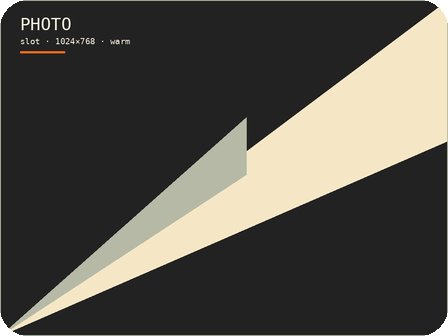
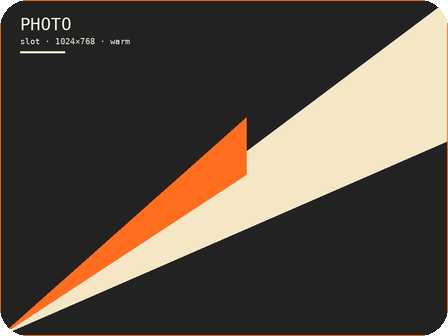
v0.6.0: accent-text token for small orange text, warm dark surfaces, outlined card 1.5px

Changed region(s): [[0.0, 0.3571, 0.5625, 0.9821], [0.0625, 0.9821, 0.9375, 1.0], [0.0312, 0.1488, 0.1562, 0.1786]]

diff --git a/examples/preview-adventurous.html b/examples/preview-adventurous.html
@@ -29,7 +29,7 @@ body{background:#333;display:flex;flex-direction:column;gap:24px;padding:24px;wi
 <div style="position:absolute;left:72px;top:612px;width:1136px;height:1px;background:#F5E7C6;border-radius:0px;"></div>
 <div style="position:absolute;left:72px;top:628px;width:700px;height:20px;font-family:'Manrope';font-size:10px;color:#565656;font-weight:400;line-height:1.3;letter-spacing:0.0em;text-align:left;white-space:pre-wrap;">Commissioning readiness · NV5</div>
 <div style="position:absolute;left:1128px;top:628px;width:80px;height:20px;font-family:'Manrope';font-size:10px;color:#565656;font-weight:400;line-height:1.3;letter-spacing:0.0em;text-align:right;white-space:pre-wrap;">02</div></section>
-<section class="slide" id="s3" style="background:#FAF3E1;"><div style="position:absolute;left:0px;top:0px;width:1280px;height:720px;background:#F9F0DC;border-radius:0px;"></div>
+<section class="slide" id="s3" style="background:#FAF3E1;"><div style="position:absolute;left:0px;top:0px;width:1280px;height:720px;background:#F5E7C6;border-radius:0px;"></div>
 <div style="position:absolute;left:72px;top:94px;width:10px;height:10px;background:#FF6D1F;border-radius:0px;"></div>
 <div style="position:absolute;left:96px;top:90px;width:620px;height:22px;font-family:'Manrope';font-size:11px;color:#3A3A3A;font-weight:700;line-height:1.3;letter-spacing:0.18em;text-align:left;white-space:pre-wrap;">02 — SOLUTION</div>
 <div style="position:absolute;left:72px;top:126px;width:132px;height:3px;background:#FF6D1F;border-radius:0px;"></div>
@@ -50,7 +50,7 @@ body{background:#333;display:flex;flex-direction:column;gap:24px;padding:24px;wi
 <div style="position:absolute;left:72px;top:500px;width:1136px;height:100px;background:#F5E7C6;border-radius:18px;"></div>
 <div style="position:absolute;left:100px;top:524px;width:700px;height:26px;font-family:'Manrope';font-size:17px;color:#222222;font-weight:700;line-height:1.3;letter-spacing:0.0em;text-align:left;white-space:pre-wrap;">Setiap temuan punya pemilik, bukti, dan tanggal.</div>
 <div style="position:absolute;left:100px;top:556px;width:700px;height:24px;font-family:'Manrope';font-size:13px;color:#3A3A3A;font-weight:400;line-height:1.3;letter-spacing:0.0em;text-align:left;white-space:pre-wrap;">Yang tidak punya ketiganya, tidak masuk laporan serah terima.</div>
-<div style="position:absolute;left:932px;top:534px;width:250px;height:40px;font-family:'Manrope';font-size:20px;color:#FF6D1F;font-weight:700;line-height:1.3;letter-spacing:0.0em;text-align:right;white-space:pre-wrap;">0 sengketa</div>
+<div style="position:absolute;left:932px;top:534px;width:250px;height:40px;font-family:'Manrope';font-size:20px;color:#A8430B;font-weight:700;line-height:1.3;letter-spacing:0.0em;text-align:right;white-space:pre-wrap;">0 sengketa</div>
 <div style="position:absolute;left:72px;top:612px;width:1136px;height:1px;background:#F5E7C6;border-radius:0px;"></div>
 <div style="position:absolute;left:72px;top:628px;width:700px;height:20px;font-family:'Manrope';font-size:10px;color:#565656;font-weight:400;line-height:1.3;letter-spacing:0.0em;text-align:left;white-space:pre-wrap;">Commissioning readiness · NV5</div>
 <div style="position:absolute;left:1128px;top:628px;width:80px;height:20px;font-family:'Manrope';font-size:10px;color:#565656;font-weight:400;line-height:1.3;letter-spacing:0.0em;text-align:right;white-space:pre-wrap;">03</div></section>
@@ -60,22 +60,22 @@ body{background:#333;display:flex;flex-direction:column;gap:24px;padding:24px;wi
 <div style="position:absolute;left:72px;top:126px;width:132px;height:3px;background:#FF6D1F;border-radius:0px;"></div>
 <div style="position:absolute;left:72px;top:168px;width:900px;height:60px;font-family:'Manrope';font-size:42px;color:#FAF3E1;font-weight:700;line-height:1.05;letter-spacing:-0.02em;text-align:left;white-space:pre-wrap;">Eighteen months, three sites.</div>
 <div style="position:absolute;left:72px;top:232px;width:700px;height:24px;font-family:'Manrope';font-size:14px;color:#F5E7C6;font-weight:400;line-height:1.3;letter-spacing:0.0em;text-align:left;white-space:pre-wrap;">Empat angka yang dipakai untuk menilai apakah ini bekerja.</div>
-<div style="position:absolute;left:72px;top:300px;width:266px;height:240px;background:#3A3A3A;border-radius:18px;"></div>
+<div style="position:absolute;left:72px;top:300px;width:266px;height:240px;background:#4A4A4A;border-radius:18px;"></div>
 <div style="position:absolute;left:96px;top:328px;width:218px;height:64px;font-family:'Manrope';font-size:46px;color:#FAF3E1;font-weight:700;line-height:1.0;letter-spacing:0.0em;text-align:left;white-space:pre-wrap;">412</div>
 <div style="position:absolute;left:96px;top:400px;width:218px;height:40px;font-family:'Manrope';font-size:13px;color:#F5E7C6;font-weight:400;line-height:1.4;letter-spacing:0.0em;text-align:left;white-space:pre-wrap;">aset tercatat</div>
-<div style="position:absolute;left:96px;top:496px;width:218px;height:22px;font-family:'Manrope';font-size:11px;color:#FF6D1F;font-weight:400;line-height:1.3;letter-spacing:0.0em;text-align:left;white-space:pre-wrap;">▲ 128 sejak Jan 2026</div>
-<div style="position:absolute;left:362px;top:300px;width:266px;height:240px;background:#3A3A3A;border-radius:18px;"></div>
+<div style="position:absolute;left:96px;top:496px;width:218px;height:22px;font-family:'Manrope';font-size:11px;color:#FFB489;font-weight:400;line-height:1.3;letter-spacing:0.0em;text-align:left;white-space:pre-wrap;">▲ 128 sejak Jan 2026</div>
+<div style="position:absolute;left:362px;top:300px;width:266px;height:240px;background:#4A4A4A;border-radius:18px;"></div>
 <div style="position:absolute;left:386px;top:328px;width:218px;height:64px;font-family:'Manrope';font-size:46px;color:#FAF3E1;font-weight:700;line-height:1.0;letter-spacing:0.0em;text-align:left;white-space:pre-wrap;">3</div>
 <div style="position:absolute;left:386px;top:400px;width:218px;height:40px;font-family:'Manrope';font-size:13px;color:#F5E7C6;font-weight:400;line-height:1.4;letter-spacing:0.0em;text-align:left;white-space:pre-wrap;">gedung serah terima</div>
-<div style="position:absolute;left:386px;top:496px;width:218px;height:22px;font-family:'Manrope';font-size:11px;color:#FF6D1F;font-weight:400;line-height:1.3;letter-spacing:0.0em;text-align:left;white-space:pre-wrap;">▲ 1 kuartal ini</div>
-<div style="position:absolute;left:652px;top:300px;width:266px;height:240px;background:#3A3A3A;border-radius:18px;"></div>
+<div style="position:absolute;left:386px;top:496px;width:218px;height:22px;font-family:'Manrope';font-size:11px;color:#FFB489;font-weight:400;line-height:1.3;letter-spacing:0.0em;text-align:left;white-space:pre-wrap;">▲ 1 kuartal ini</div>
+<div style="position:absolute;left:652px;top:300px;width:266px;height:240px;background:#4A4A4A;border-radius:18px;"></div>
 <div style="position:absolute;left:676px;top:328px;width:218px;height:64px;font-family:'Manrope';font-size:46px;color:#FAF3E1;font-weight:700;line-height:1.0;letter-spacing:0.0em;text-align:left;white-space:pre-wrap;">0</div>
 <div style="position:absolute;left:676px;top:400px;width:218px;height:40px;font-family:'Manrope';font-size:13px;color:#F5E7C6;font-weight:400;line-height:1.4;letter-spacing:0.0em;text-align:left;white-space:pre-wrap;">sengketa pasca-serahan</div>
-<div style="position:absolute;left:676px;top:496px;width:218px;height:22px;font-family:'Manrope';font-size:11px;color:#FF6D1F;font-weight:400;line-height:1.3;letter-spacing:0.0em;text-align:left;white-space:pre-wrap;">= tetap nol</div>
-<div style="position:absolute;left:942px;top:300px;width:266px;height:240px;background:#3A3A3A;border-radius:18px;"></div>
+<div style="position:absolute;left:676px;top:496px;width:218px;height:22px;font-family:'Manrope';font-size:11px;color:#FFB489;font-weight:400;line-height:1.3;letter-spacing:0.0em;text-align:left;white-space:pre-wrap;">= tetap nol</div>
+<div style="position:absolute;left:942px;top:300px;width:266px;height:240px;background:#4A4A4A;border-radius:18px;"></div>
 <div style="position:absolute;left:966px;top:328px;width:218px;height:64px;font-family:'Manrope';font-size:46px;color:#FAF3E1;font-weight:700;line-height:1.0;letter-spacing:0.0em;text-align:left;white-space:pre-wrap;">11</div>
 <div style="position:absolute;left:966px;top:400px;width:218px;height:40px;font-family:'Manrope';font-size:13px;color:#F5E7C6;font-weight:400;line-height:1.4;letter-spacing:0.0em;text-align:left;white-space:pre-wrap;">hari lebih cepat</div>
-<div style="position:absolute;left:966px;top:496px;width:218px;height:22px;font-family:'Manrope';font-size:11px;color:#FF6D1F;font-weight:400;line-height:1.3;letter-spacing:0.0em;text-align:left;white-space:pre-wrap;">▼ dari 11 ke 4 hari</div>
+<div style="position:absolute;left:966px;top:496px;width:218px;height:22px;font-family:'Manrope';font-size:11px;color:#FFB489;font-weight:400;line-height:1.3;letter-spacing:0.0em;text-align:left;white-space:pre-wrap;">▼ dari 11 ke 4 hari</div>
 <div style="position:absolute;left:72px;top:580px;width:900px;height:24px;font-family:'Manrope';font-size:11px;color:#F5E7C6;font-weight:400;line-height:1.3;letter-spacing:0.0em;text-align:left;white-space:pre-wrap;">Angka dari tiga proyek percontohan di Cikarang, Jan 2025 – Jun 2026.</div>
 <div style="position:absolute;left:72px;top:612px;width:1136px;height:1px;background:#3A3A3A;border-radius:0px;"></div>
 <div style="position:absolute;left:72px;top:628px;width:700px;height:20px;font-family:'Manrope';font-size:10px;color:#B6B9A5;font-weight:400;line-height:1.3;letter-spacing:0.0em;text-align:left;white-space:pre-wrap;">Commissioning readiness · NV5</div>
@@ -100,7 +100,7 @@ body{background:#333;display:flex;flex-direction:column;gap:24px;padding:24px;wi
 <div style="position:absolute;left:96px;top:90px;width:620px;height:22px;font-family:'Manrope';font-size:11px;color:#3A3A3A;font-weight:700;line-height:1.3;letter-spacing:0.18em;text-align:left;white-space:pre-wrap;">05 — PAKET</div>
 <div style="position:absolute;left:72px;top:126px;width:132px;height:3px;background:#FF6D1F;border-radius:0px;"></div>
 <div style="position:absolute;left:72px;top:168px;width:900px;height:60px;font-family:'Manrope';font-size:42px;color:#222222;font-weight:700;line-height:1.05;letter-spacing:-0.02em;text-align:left;white-space:pre-wrap;">Dua cara masuk.</div>
-<div style="position:absolute;left:72px;top:280px;width:520px;height:300px;background:#F9F0DC;border:1px solid #24545A;border-radius:18px;"></div>
+<div style="position:absolute;left:72px;top:280px;width:520px;height:300px;background:#F5E7C6;border:1.5px solid #24545A;border-radius:18px;"></div>
 <div style="position:absolute;left:100px;top:304px;width:300px;height:22px;font-family:'Manrope';font-size:10px;color:#3A3A3A;font-weight:400;line-height:1.3;letter-spacing:0.14em;text-align:left;white-space:pre-wrap;">PILOT · SATU GEDUNG</div>
 <div style="position:absolute;left:100px;top:336px;width:300px;height:60px;font-family:'Manrope';font-size:44px;color:#222222;font-weight:700;line-height:1.0;letter-spacing:0.0em;text-align:left;white-space:pre-wrap;">Rp 0</div>
 <div style="position:absolute;left:100px;top:396px;width:300px;height:22px;font-family:'Manrope';font-size:12px;color:#3A3A3A;font-weight:400;line-height:1.3;letter-spacing:0.0em;text-align:left;white-space:pre-wrap;">6 minggu, 1 tim, 120 aset</div>
@@ -123,11 +123,11 @@ body{background:#333;display:flex;flex-direction:column;gap:24px;padding:24px;wi
 <div style="position:absolute;left:72px;top:282px;width:1136px;height:1px;background:#3A3A3A;border-radius:0px;"></div>
 <div style="position:absolute;left:72px;top:306px;width:460px;height:22px;font-family:'Manrope';font-size:12px;color:#F5E7C6;font-weight:400;line-height:1.3;letter-spacing:0.0em;text-align:left;white-space:pre-wrap;">Nilai proyek per gedung</div>
 <div style="position:absolute;left:552px;top:300px;width:400px;height:44px;font-family:'Manrope';font-size:36px;color:#FAF3E1;font-weight:700;line-height:1.0;letter-spacing:0.0em;text-align:right;white-space:pre-wrap;">Rp 1,2 M</div>
-<div style="position:absolute;left:972px;top:312px;width:236px;height:30px;font-family:'Manrope';font-size:15px;color:#FF6D1F;font-weight:700;line-height:1.3;letter-spacing:0.0em;text-align:right;white-space:pre-wrap;">+12%</div>
+<div style="position:absolute;left:972px;top:312px;width:236px;height:30px;font-family:'Manrope';font-size:15px;color:#FFB489;font-weight:700;line-height:1.3;letter-spacing:0.0em;text-align:right;white-space:pre-wrap;">+12%</div>
 <div style="position:absolute;left:72px;top:372px;width:1136px;height:1px;background:#3A3A3A;border-radius:0px;"></div>
 <div style="position:absolute;left:72px;top:396px;width:460px;height:22px;font-family:'Manrope';font-size:12px;color:#F5E7C6;font-weight:400;line-height:1.3;letter-spacing:0.0em;text-align:left;white-space:pre-wrap;">Biaya serah terima</div>
 <div style="position:absolute;left:552px;top:390px;width:400px;height:44px;font-family:'Manrope';font-size:36px;color:#FAF3E1;font-weight:700;line-height:1.0;letter-spacing:0.0em;text-align:right;white-space:pre-wrap;">Rp 96 jt</div>
-<div style="position:absolute;left:972px;top:402px;width:236px;height:30px;font-family:'Manrope';font-size:15px;color:#FF6D1F;font-weight:700;line-height:1.3;letter-spacing:0.0em;text-align:right;white-space:pre-wrap;">−11 hari</div>
+<div style="position:absolute;left:972px;top:402px;width:236px;height:30px;font-family:'Manrope';font-size:15px;color:#FFB489;font-weight:700;line-height:1.3;letter-spacing:0.0em;text-align:right;white-space:pre-wrap;">−11 hari</div>
 <div style="position:absolute;left:72px;top:462px;width:1136px;height:1px;background:#3A3A3A;border-radius:0px;"></div>
 <div style="position:absolute;left:72px;top:486px;width:460px;height:22px;font-family:'Manrope';font-size:12px;color:#F5E7C6;font-weight:400;line-height:1.3;letter-spacing:0.0em;text-align:left;white-space:pre-wrap;">Sengketa setelah serah terima</div>
 <div style="position:absolute;left:552px;top:480px;width:400px;height:44px;font-family:'Manrope';font-size:36px;color:#FF6D1F;font-weight:700;line-height:1.0;letter-spacing:0.0em;text-align:right;white-space:pre-wrap;">Rp 0</div>

diff --git a/examples/preview-professional.html b/examples/preview-professional.html
@@ -50,7 +50,7 @@ body{background:#333;display:flex;flex-direction:column;gap:24px;padding:24px;wi
 <div style="position:absolute;left:72px;top:500px;width:1136px;height:100px;background:#F5E7C6;border-radius:18px;"></div>
 <div style="position:absolute;left:100px;top:524px;width:700px;height:26px;font-family:'Manrope';font-size:17px;color:#142C36;font-weight:700;line-height:1.3;letter-spacing:0.0em;text-align:left;white-space:pre-wrap;">Setiap temuan punya pemilik, bukti, dan tanggal.</div>
 <div style="position:absolute;left:100px;top:556px;width:700px;height:24px;font-family:'Manrope';font-size:13px;color:#24545A;font-weight:400;line-height:1.3;letter-spacing:0.0em;text-align:left;white-space:pre-wrap;">Yang tidak punya ketiganya, tidak masuk laporan serah terima.</div>
-<div style="position:absolute;left:932px;top:534px;width:250px;height:40px;font-family:'Manrope';font-size:20px;color:#FF6D1F;font-weight:700;line-height:1.3;letter-spacing:0.0em;text-align:right;white-space:pre-wrap;">0 sengketa</div>
+<div style="position:absolute;left:932px;top:534px;width:250px;height:40px;font-family:'Manrope';font-size:20px;color:#A8430B;font-weight:700;line-height:1.3;letter-spacing:0.0em;text-align:right;white-space:pre-wrap;">0 sengketa</div>
 <div style="position:absolute;left:72px;top:612px;width:1136px;height:1px;background:#D2D4C6;border-radius:0px;"></div>
 <div style="position:absolute;left:72px;top:628px;width:700px;height:20px;font-family:'Manrope';font-size:10px;color:#466B67;font-weight:400;line-height:1.3;letter-spacing:0.0em;text-align:left;white-space:pre-wrap;">Commissioning readiness · NV5</div>
 <div style="position:absolute;left:1128px;top:628px;width:80px;height:20px;font-family:'Manrope';font-size:10px;color:#466B67;font-weight:400;line-height:1.3;letter-spacing:0.0em;text-align:right;white-space:pre-wrap;">03</div></section>
@@ -63,19 +63,19 @@ body{background:#333;display:flex;flex-direction:column;gap:24px;padding:24px;wi
 <div style="position:absolute;left:72px;top:300px;width:266px;height:240px;background:#1B3B47;border-radius:18px;"></div>
 <div style="position:absolute;left:96px;top:328px;width:218px;height:64px;font-family:'Manrope';font-size:46px;color:#E9E5D9;font-weight:700;line-height:1.0;letter-spacing:0.0em;text-align:left;white-space:pre-wrap;">412</div>
 <div style="position:absolute;left:96px;top:400px;width:218px;height:40px;font-family:'Manrope';font-size:13px;color:#B6B9A5;font-weight:400;line-height:1.4;letter-spacing:0.0em;text-align:left;white-space:pre-wrap;">aset tercatat</div>
-<div style="position:absolute;left:96px;top:496px;width:218px;height:22px;font-family:'Manrope';font-size:11px;color:#FF6D1F;font-weight:400;line-height:1.3;letter-spacing:0.0em;text-align:left;white-space:pre-wrap;">▲ 128 sejak Jan 2026</div>
+<div style="position:absolute;left:96px;top:496px;width:218px;height:22px;font-family:'Manrope';font-size:11px;color:#FF9C63;font-weight:400;line-height:1.3;letter-spacing:0.0em;text-align:left;white-space:pre-wrap;">▲ 128 sejak Jan 2026</div>
 <div style="position:absolute;left:362px;top:300px;width:266px;height:240px;background:#1B3B47;border-radius:18px;"></div>
 <div style="position:absolute;left:386px;top:328px;width:218px;height:64px;font-family:'Manrope';font-size:46px;color:#E9E5D9;font-weight:700;line-height:1.0;letter-spacing:0.0em;text-align:left;white-space:pre-wrap;">3</div>
 <div style="position:absolute;left:386px;top:400px;width:218px;height:40px;font-family:'Manrope';font-size:13px;color:#B6B9A5;font-weight:400;line-height:1.4;letter-spacing:0.0em;text-align:left;white-space:pre-wrap;">gedung serah terima</div>
-<div style="position:absolute;left:386px;top:496px;width:218px;height:22px;font-family:'Manrope';font-size:11px;color:#FF6D1F;font-weight:400;line-height:1.3;letter-spacing:0.0em;text-align:left;white-space:pre-wrap;">▲ 1 kuartal ini</div>
+<div style="position:absolute;left:386px;top:496px;width:218px;height:22px;font-family:'Manrope';font-size:11px;color:#FF9C63;font-weight:400;line-height:1.3;letter-spacing:0.0em;text-align:left;white-space:pre-wrap;">▲ 1 kuartal ini</div>
 <div style="position:absolute;left:652px;top:300px;width:266px;height:240px;background:#1B3B47;border-radius:18px;"></div>
 <div style="position:absolute;left:676px;top:328px;width:218px;height:64px;font-family:'Manrope';font-size:46px;color:#E9E5D9;font-weight:700;line-height:1.0;letter-spacing:0.0em;text-align:left;white-space:pre-wrap;">0</div>
 <div style="position:absolute;left:676px;top:400px;width:218px;height:40px;font-family:'Manrope';font-size:13px;color:#B6B9A5;font-weight:400;line-height:1.4;letter-spacing:0.0em;text-align:left;white-space:pre-wrap;">sengketa pasca-serahan</div>
-<div style="position:absolute;left:676px;top:496px;width:218px;height:22px;font-family:'Manrope';font-size:11px;color:#FF6D1F;font-weight:400;line-height:1.3;letter-spacing:0.0em;text-align:left;white-space:pre-wrap;">= tetap nol</div>
+<div style="position:absolute;left:676px;top:496px;width:218px;height:22px;font-family:'Manrope';font-size:11px;color:#FF9C63;font-weight:400;line-height:1.3;letter-spacing:0.0em;text-align:left;white-space:pre-wrap;">= tetap nol</div>
 <div style="position:absolute;left:942px;top:300px;width:266px;height:240px;background:#1B3B47;border-radius:18px;"></div>
 <div style="position:absolute;left:966px;top:328px;width:218px;height:64px;font-family:'Manrope';font-size:46px;color:#E9E5D9;font-weight:700;line-height:1.0;letter-spacing:0.0em;text-align:left;white-space:pre-wrap;">11</div>
 <div style="position:absolute;left:966px;top:400px;width:218px;height:40px;font-family:'Manrope';font-size:13px;color:#B6B9A5;font-weight:400;line-height:1.4;letter-spacing:0.0em;text-align:left;white-space:pre-wrap;">hari lebih cepat</div>
-<div style="position:absolute;left:966px;top:496px;width:218px;height:22px;font-family:'Manrope';font-size:11px;color:#FF6D1F;font-weight:400;line-height:1.3;letter-spacing:0.0em;text-align:left;white-space:pre-wrap;">▼ dari 11 ke 4 hari</div>
+<div style="position:absolute;left:966px;top:496px;width:218px;height:22px;font-family:'Manrope';font-size:11px;color:#FF9C63;font-weight:400;line-height:1.3;letter-spacing:0.0em;text-align:left;white-space:pre-wrap;">▼ dari 11 ke 4 hari</div>
 <div style="position:absolute;left:72px;top:580px;width:900px;height:24px;font-family:'Manrope';font-size:11px;color:#B6B9A5;font-weight:400;line-height:1.3;letter-spacing:0.0em;text-align:left;white-space:pre-wrap;">Angka dari tiga proyek percontohan di Cikarang, Jan 2025 – Jun 2026.</div>
 <div style="position:absolute;left:72px;top:612px;width:1136px;height:1px;background:#234853;border-radius:0px;"></div>
 <div style="position:absolute;left:72px;top:628px;width:700px;height:20px;font-family:'Manrope';font-size:10px;color:#8FADA9;font-weight:400;line-height:1.3;letter-spacing:0.0em;text-align:left;white-space:pre-wrap;">Commissioning readiness · NV5</div>
@@ -100,7 +100,7 @@ body{background:#333;display:flex;flex-direction:column;gap:24px;padding:24px;wi
 <div style="position:absolute;left:96px;top:90px;width:620px;height:22px;font-family:'Manrope';font-size:11px;color:#24545A;font-weight:700;line-height:1.3;letter-spacing:0.18em;text-align:left;white-space:pre-wrap;">05 — PAKET</div>
 <div style="position:absolute;left:72px;top:126px;width:132px;height:3px;background:#FF6D1F;border-radius:0px;"></div>
 <div style="position:absolute;left:72px;top:168px;width:900px;height:60px;font-family:'Manrope';font-size:42px;color:#142C36;font-weight:700;line-height:1.05;letter-spacing:-0.02em;text-align:left;white-space:pre-wrap;">Dua cara masuk.</div>
-<div style="position:absolute;left:72px;top:280px;width:520px;height:300px;background:#FAF3E1;border:1px solid #24545A;border-radius:18px;"></div>
+<div style="position:absolute;left:72px;top:280px;width:520px;height:300px;background:#FAF3E1;border:1.5px solid #24545A;border-radius:18px;"></div>
 <div style="position:absolute;left:100px;top:304px;width:300px;height:22px;font-family:'Manrope';font-size:10px;color:#24545A;font-weight:400;line-height:1.3;letter-spacing:0.14em;text-align:left;white-space:pre-wrap;">PILOT · SATU GEDUNG</div>
 <div style="position:absolute;left:100px;top:336px;width:300px;height:60px;font-family:'Manrope';font-size:44px;color:#142C36;font-weight:700;line-height:1.0;letter-spacing:0.0em;text-align:left;white-space:pre-wrap;">Rp 0</div>
 <div style="position:absolute;left:100px;top:396px;width:300px;height:22px;font-family:'Manrope';font-size:12px;color:#24545A;font-weight:400;line-height:1.3;letter-spacing:0.0em;text-align:left;white-space:pre-wrap;">6 minggu, 1 tim, 120 aset</div>
@@ -123,11 +123,11 @@ body{background:#333;display:flex;flex-direction:column;gap:24px;padding:24px;wi
 <div style="position:absolute;left:72px;top:282px;width:1136px;height:1px;background:#234853;border-radius:0px;"></div>
 <div style="position:absolute;left:72px;top:306px;width:460px;height:22px;font-family:'Manrope';font-size:12px;color:#B6B9A5;font-weight:400;line-height:1.3;letter-spacing:0.0em;text-align:left;white-space:pre-wrap;">Nilai proyek per gedung</div>
 <div style="position:absolute;left:552px;top:300px;width:400px;height:44px;font-family:'Manrope';font-size:36px;color:#E9E5D9;font-weight:700;line-height:1.0;letter-spacing:0.0em;text-align:right;white-space:pre-wrap;">Rp 1,2 M</div>
-<div style="position:absolute;left:972px;top:312px;width:236px;height:30px;font-family:'Manrope';font-size:15px;color:#FF6D1F;font-weight:700;line-height:1.3;letter-spacing:0.0em;text-align:right;white-space:pre-wrap;">+12%</div>
+<div style="position:absolute;left:972px;top:312px;width:236px;height:30px;font-family:'Manrope';font-size:15px;color:#FF9C63;font-weight:700;line-height:1.3;letter-spacing:0.0em;text-align:right;white-space:pre-wrap;">+12%</div>
 <div style="position:absolute;left:72px;top:372px;width:1136px;height:1px;background:#234853;border-radius:0px;"></div>
 <div style="position:absolute;left:72px;top:396px;width:460px;height:22px;font-family:'Manrope';font-size:12px;color:#B6B9A5;font-weight:400;line-height:1.3;letter-spacing:0.0em;text-align:left;white-space:pre-wrap;">Biaya serah terima</div>
 <div style="position:absolute;left:552px;top:390px;width:400px;height:44px;font-family:'Manrope';font-size:36px;color:#E9E5D9;font-weight:700;line-height:1.0;letter-spacing:0.0em;text-align:right;white-space:pre-wrap;">Rp 96 jt</div>
-<div style="position:absolute;left:972px;top:402px;width:236px;height:30px;font-family:'Manrope';font-size:15px;color:#FF6D1F;font-weight:700;line-height:1.3;letter-spacing:0.0em;text-align:right;white-space:pre-wrap;">−11 hari</div>
+<div style="position:absolute;left:972px;top:402px;width:236px;height:30px;font-family:'Manrope';font-size:15px;color:#FF9C63;font-weight:700;line-height:1.3;letter-spacing:0.0em;text-align:right;white-space:pre-wrap;">−11 hari</div>
 <div style="position:absolute;left:72px;top:462px;width:1136px;height:1px;background:#234853;border-radius:0px;"></div>
 <div style="position:absolute;left:72px;top:486px;width:460px;height:22px;font-family:'Manrope';font-size:12px;color:#B6B9A5;font-weight:400;line-height:1.3;letter-spacing:0.0em;text-align:left;white-space:pre-wrap;">Sengketa setelah serah terima</div>
 <div style="position:absolute;left:552px;top:480px;width:400px;height:44px;font-family:'Manrope';font-size:36px;color:#FF6D1F;font-weight:700;line-height:1.0;letter-spacing:0.0em;text-align:right;white-space:pre-wrap;">Rp 0</div>

diff --git a/build/deck.py b/build/deck.py
@@ -101,7 +101,7 @@ def stat(x, y, w, number, label, theme="light", accent="brand.primary"):
             t(x, y + 76, w, 44, label, "text.secondary", theme, size=13, leading=1.4)]
 
 
-def card(x, y, w, h, number, label, delta, theme="dark", delta_color="brand.primary"):
+def card(x, y, w, h, number, label, delta, theme="dark", delta_color="brand.accent-text"):
     return [r(x, y, w, h, "surface.raised", theme, radius=18),
             t(x + 24, y + 28, w - 48, 64, number, "text.primary", theme,
               size=46, bold=True, font="mono", leading=1.0),
@@ -170,7 +170,7 @@ SLIDES = [
           "text.primary", font="heading", size=17, bold=True),
         t(M + 28, 556, 700, 24, "Yang tidak punya ketiganya, tidak masuk laporan serah terima.",
           "text.secondary", size=13),
-        t(M + 860, 534, 250, 40, "0 sengketa", "brand.primary", size=20, bold=True,
+        t(M + 860, 534, 250, 40, "0 sengketa", "brand.accent-text", size=20, bold=True,
           font="mono", align="right"),
         *footer(3),
     ]},
@@ -222,7 +222,7 @@ SLIDES = [
         t(M, 168, 900, 60, "Dua cara masuk.", "text.primary",
           font="heading", size=42, bold=True, leading=1.05, spacing=-0.02),
 
-        r(M, 280, 520, 300, "surface.raised", radius=18, stroke="border.strong", stroke_w=1),
+        r(M, 280, 520, 300, "surface.raised", radius=18, stroke="border.strong", stroke_w=1.5),
         t(M + 28, 304, 300, 22, "PILOT · SATU GEDUNG", "text.secondary", size=10, caps=True,
           spacing=0.14, font="mono"),
         t(M + 28, 336, 300, 60, "Rp 0", "text.primary", size=44, bold=True, font="mono", leading=1.0),
@@ -255,14 +255,14 @@ SLIDES = [
         t(M, 306, 460, 22, "Nilai proyek per gedung", "text.secondary", "dark", size=12),
         t(M + 480, 300, 400, 44, "Rp 1,2 M", "text.primary", "dark", size=36, bold=True,
           font="mono", leading=1.0, align="right"),
-        t(M + 900, 312, 236, 30, "+12%", "brand.primary", "dark", size=15, bold=True,
+        t(M + 900, 312, 236, 30, "+12%", "brand.accent-text", "dark", size=15, bold=True,
           font="mono", align="right"),
         r(M, 372, 1136, 1, "border.subtle", "dark"),
 
         t(M, 396, 460, 22, "Biaya serah terima", "text.secondary", "dark", size=12),
         t(M + 480, 390, 400, 44, "Rp 96 jt", "text.primary", "dark", size=36, bold=True,
           font="mono", leading=1.0, align="right"),
-        t(M + 900, 402, 236, 30, "−11 hari", "brand.primary", "dark", size=15, bold=True,
+        t(M + 900, 402, 236, 30, "−11 hari", "brand.accent-text", "dark", size=15, bold=True,
           font="mono", align="right"),
         r(M, 462, 1136, 1, "border.subtle", "dark"),
 

diff --git a/build/build.py b/build/build.py
@@ -257,6 +257,8 @@ CHECKS = {
         ("text.secondary on surface.base", "text.secondary", "surface.base", 4.5),
         ("text.on-brand on brand.primary", "text.on-brand", "brand.primary", 4.5),
         ("text.link on surface.base", "text.link", "surface.base", 4.5),
+        ("brand.accent-text on surface.base", "brand.accent-text", "surface.base", 4.5),
+        ("brand.accent-text on surface.raised", "brand.accent-text", "surface.raised", 4.5),
         ("status.success on surface.base", "status.success", "surface.base", 3.0),
         ("status.danger on surface.base", "status.danger", "surface.base", 3.0),
     ],
@@ -265,6 +267,8 @@ CHECKS = {
         ("text.secondary on surface.base", "text.secondary", "surface.base", 4.5),
         ("text.on-brand on brand.primary", "text.on-brand", "brand.primary", 4.5),
         ("text.link on surface.base", "text.link", "surface.base", 4.5),
+        ("brand.accent-text on surface.base", "brand.accent-text", "surface.base", 4.5),
+        ("brand.accent-text on surface.raised", "brand.accent-text", "surface.raised", 4.5),
         ("status.success on surface.base", "status.success", "surface.base", 3.0),
         ("status.danger on surface.base", "status.danger", "surface.base", 3.0),
     ],

diff --git a/build/photos.py b/build/photos.py
@@ -17,8 +17,8 @@ TEAL = (36, 84, 90)
 OLIVE = (182, 185, 165)
 
 # warm stand-in for the adventurous palette: charcoal ground, sand blade, orange rule
-WARM = {"ground": (34, 34, 34), "band": (245, 231, 198), "blade": (182, 185, 165),
-        "rule": (255, 109, 31), "ink": (250, 243, 225)}
+WARM = {"ground": (34, 34, 34), "band": (245, 231, 198), "blade": (255, 109, 31),
+        "rule": (245, 231, 198), "ink": (250, 243, 225)}
 COOL = {"ground": (26, 52, 62), "band": (36, 84, 90), "blade": OLIVE,
         "rule": (255, 109, 31), "ink": (233, 229, 217)}
 
